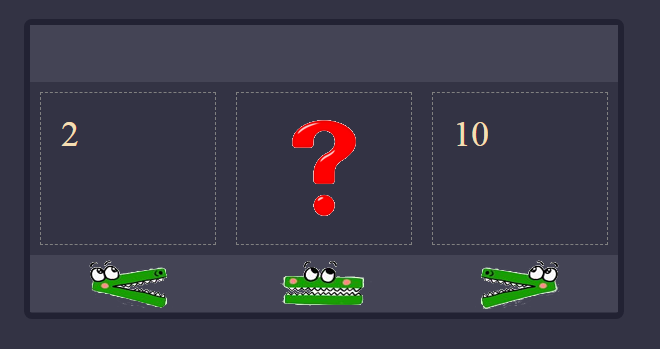
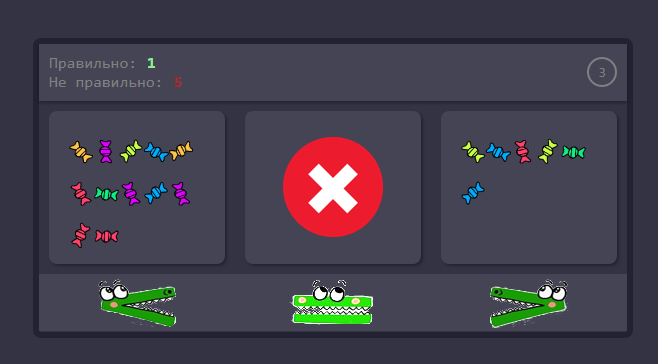
latest

diff --git a/js/Game.js b/js/Game.js
@@ -1,48 +1,97 @@
 class Game {
-
+  leftValue = 0;
+  rightValue = 0;
+  minCandies = 1;
+  maxCandies = 15;
+  successCounter = 0;
+  failureCounter = 0;
+  maxTime = 7;
+  interval = null;
   constructor (view){
     this.__view = view;
-    this.leftValue = 0;
-    this.rightValue = 0;
-    this.startRound();
+    this.reset();
   }
-  startRound (){
-    this.leftValue = this.getRandom (1, 10); 
-    this.rightValue = this.getRandom (1, 10);
-
+  resetRound (){
+    this.resetTimer();
+    this.leftValue = this.generateCandies();
+    this.rightValue = this.generateCandies(); 
     this.__view.outputLeft( this.leftValue );
-    this.__view.outputCenter(0);
+    this.__view.outputCenter('quetion');
     this.__view.outputRight( this.rightValue );
+  }
+  resetRoundWithTimeout (){
+    clearInterval(this.interval);
+    setTimeout(()=>{
+      this.resetRound();
+    }, 1000)
+  }
+  reset (){
+    this.successCounter = 0;
+    this.failureCounter = 0;
+    this.__view.outputSuccess(0);
+    this.__view.outputFailure(0);
+    this.resetRound();
+  }
+  resetTimer (){
+    this.time = this.maxTime;
+    this.__view.outputTimer(this.time);
+    this.interval = setInterval(()=>{
+        this.__view.outputTimer(--this.time);
+        if(this.time!==0) return;
+        clearInterval(this.interval);
+        this.failure();
+    }, 1000)
+    
   }
   getRandom (min, max){
       min = Math.ceil(min);
       max = Math.floor(max);
       return Math.floor(Math.random() * (max - min + 1)) + min;
   }
-  success (n){
-    alert('Правильно')
-    this.__view.outputCenter(n)
-    setTimeout(()=>{
-      this.startRound();
-    }, 1000)
+  generateCandies (){
+    const max = this.getRandom (this.minCandies, this.maxCandies); 
+    const candies = [];
+    for(let i=0;i<max;i++){
+      const obj = {
+        index: this.getRandom(0, 5),
+        rotate: this.getRandom(0, 180)
+      }
+      candies.push(obj);
+    }
+    return candies;
+  }
+  success (){
+    this.__view.outputSuccess(++this.successCounter);
+    this.__view.outputCenter('success');
+    this.resetRoundWithTimeout();
   }
   failure (){
-    alert('НЕ правильно')
+    this.__view.outputFailure(++this.failureCounter);
+    this.__view.outputCenter('failure');
+    this.resetRoundWithTimeout();
   }
   checkAnswer (value){
     switch (value){
       case '<':
-        (this.leftValue<this.rightValue)?this.success(1):this.failure();
+        (this.leftValue<this.rightValue)?this.success():this.failure();
         break;
       case '=':
-        (this.leftValue===this.rightValue)?this.success(2):this.failure();
+        (this.leftValue===this.rightValue)?this.success():this.failure();
         break;
       case '>':
-        (this.leftValue>this.rightValue)?this.success(3):this.failure();
+        (this.leftValue>this.rightValue)?this.success():this.failure();
         break;
-
     }
   }
 }
 
 export default Game;
+
+/**
+ *
+document.getElementById('myAudioTagID').play();
+
+//play audio with out html audio tag
+var myAudio = new Audio('my_great_song.mp3');
+myAudio.play();
+ */

diff --git a/js/View.js b/js/View.js
@@ -1,20 +1,28 @@
 class View {
-  $left = document.querySelector('.view__left')
-  $center = document.querySelector('.view__center img')
-  $right = document.querySelector('.view__right')
-  controls = document.querySelector('.controls')
-  centerValue = [
-      'img/quetion.png', 
-      'img/control-left.png', 
-      'img/control-center.png',
-      'img/control-right.png'
-  ]
+  $left = document.querySelector('.view__left');
+  $center = document.querySelector('.view__center img');
+  $right = document.querySelector('.view__right');
+  $controls = document.querySelector('.controls');
+  $success = document.querySelector('.top-bar__success--value');
+  $failure = document.querySelector('.top-bar__failure--value');
+  $timer = document.querySelector('.top-bar__timer');
+  statusImg = {
+      quetion: 'img/quetion.png', 
+      success: 'img/success.png', 
+      failure: 'img/failure.png'
+  }
+
+  maxImgIndex = 5;
+
+  getImageNode (img){
+    return `<img class="view__candy" src="img/candy-${img.index}.png" style="transform: rotate(${img.rotate}deg)" />`;
+  }
 
   constructor (){
     this.mount();
   }
   mount (){
-    this.controls.addEventListener('click', e=>{
+    this.$controls.addEventListener('click', e=>{
       if(e.target.tagName!=='IMG') return;
       this.callback(e.target.dataset.value);
     })
@@ -23,13 +31,29 @@ class View {
     this.callback = callback;
   }
   outputLeft (data){
-    this.$left.innerHTML = data
+    this.$left.innerHTML = '';
+    data.forEach(imgData=>{
+        this.$left.innerHTML += this.getImageNode(imgData);
+    })
+    
   }
-  outputCenter (n){
-    this.$center.src = this.centerValue[n];
+  outputCenter (status){
+    this.$center.src = this.statusImg[status];
   }
   outputRight (data){
-    this.$right.innerHTML = data
+    this.$right.innerHTML = '';
+    data.forEach(imgData=>{
+        this.$right.innerHTML += this.getImageNode(imgData);
+    })
+  }
+  outputSuccess (n){
+    this.$success.innerHTML = n;
+  }
+  outputFailure(n){
+    this.$failure.innerHTML = n;
+  }
+  outputTimer (t){
+    this.$timer.innerHTML = t;
   }
 }
 

diff --git a/css/style.css b/css/style.css
@@ -23,11 +23,59 @@ body{
   border: 6px solid #223;
   border-radius: 8px;
 }
+/**
+ * top-bar
+ */
 .top-bar{
   height: 20%;
   background-color: #445;
+  padding: 10px;
+  box-shadow: 0px 2px 3px rgba(0,0,0,0.3);
+  font-family: Consolas;
+  display: flex;
+  justify-content: space-between;
+  align-items: center;
+}
+.top-bar__success{
+  color: gray;
+  display: flex;
+  align-items: center;
 
 }
+.top-bar__success--value{
+  color: lightgreen;
+  font-weight: 700;
+  padding-left: 10px;
+}
+.top-bar__failure{
+  color: gray;
+  display: flex;
+  align-items: center;
+
+}
+
+.top-bar__failure--value{
+   color: brown;
+   font-weight: 700;
+   padding-left: 10px;
+}
+.top-bar__timer{
+  color: gray;
+  width: 30px;
+  height: 30px;
+  border: 2px solid gray;
+  display: flex;
+  justify-content: center;
+  align-items: center;
+  border-radius: 50%;
+  font-size: 14px;
+  font-family: Consolas;
+}
+
+/**
+ * view
+ */
+
 .view{
   display: flex;
   justify-content: space-between;
@@ -35,8 +83,10 @@ body{
 }
 .view>div{
   width: 30%;
-  border: 1px dashed gray;
+  box-shadow: 2px 2px 3px rgba(0,0,0,0.3);
   margin: 10px;
+  background-color: #445;
+  border-radius: 8px;
 }
 .view__left{
   padding: 20px;
@@ -52,6 +102,10 @@ body{
   padding: 20px;
   color: wheat;
   font-size: 36px;
+}
+.view__candy{
+  width: 25px;
+  height: 25px;
 }
 /**
  * controls
@@ -71,3 +125,4 @@ body{
 .controls img:hover{
   filter: brightness(150%);
 }
+

diff --git a/index.html b/index.html
@@ -9,7 +9,19 @@
 <body>
 
   <div class="game">
-    <div class="top-bar"></div>
+    <div class="top-bar">
+          <div>
+              <div class="top-bar__success">
+                  <span>Правильно: </span>
+                  <span class="top-bar__success--value"></span>
+              </div>
+              <div class="top-bar__failure">
+                  <span>Не правильно: </span>
+                  <span class="top-bar__failure--value"></span>
+              </div>
+          </div>
+          <div class="top-bar__timer"></div>
+    </div>
     <div class="view">
         <div class="view__left"></div>
         <div class="view__center">
@@ -21,7 +33,6 @@
         <img alt="" data-value="<" class="controls__right" src="img/control-left.png"/>
         <img alt="" data-value="=" class="controls__center" src="img/control-center.png"/>
         <img alt="" data-value=">" class="controls__left" src="img/control-right.png"/>
-
     </div>
   </div>
 
